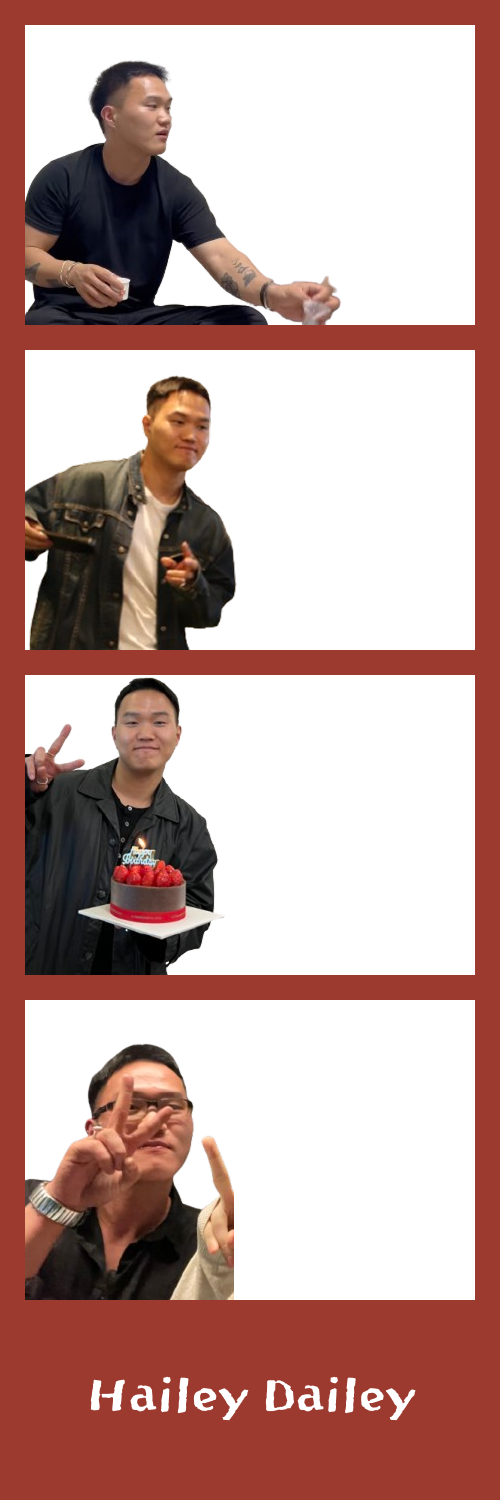
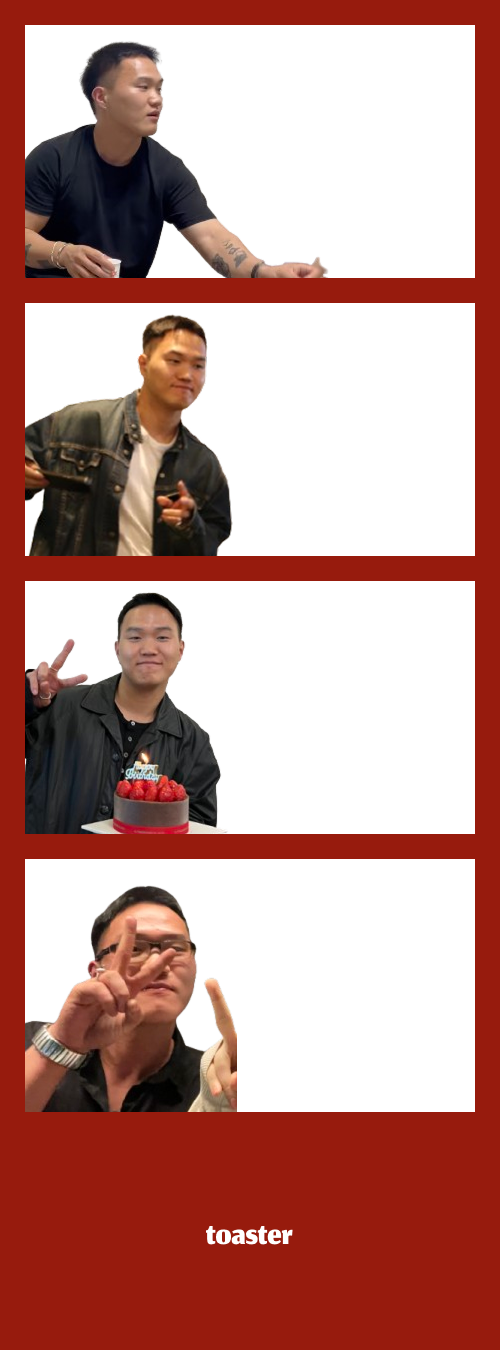
chore: 프레임 추가

diff --git a/src/assets/frames/index.ts b/src/assets/frames/index.ts
@@ -1,6 +1,8 @@
 export { default as blueFrame } from './blue.png';
+export { default as butterFrame } from './butter.png';
 export { default as frame } from './frame.png';
 export { default as gdyFrame } from './gdyFrame.png';
 export { default as grassFrame } from './grass.png';
 export { default as greenFrame } from './greenFrame.png';
-export { default as pinkGreenFrame } from './pinkGreen.png';
+export { default as pinkFrame } from './pink.png';
+export { default as whiteFrame } from './white.png';

diff --git a/src/constants/frames.ts b/src/constants/frames.ts
@@ -1,17 +1,21 @@
 import {
   blueFrame,
+  butterFrame,
   frame,
   gdyFrame,
   grassFrame,
   greenFrame,
-  pinkGreenFrame,
+  pinkFrame,
+  whiteFrame,
 } from '@/assets/frames';
 
 export const frames: Record<string, string> = {
   default: frame,
   버건디: gdyFrame,
   무한도전: greenFrame,
-  핑크그린: pinkGreenFrame,
   초록초록: grassFrame,
   블루베리: blueFrame,
+  핑크: pinkFrame,
+  버터: butterFrame,
+  화이트: whiteFrame,
 };
